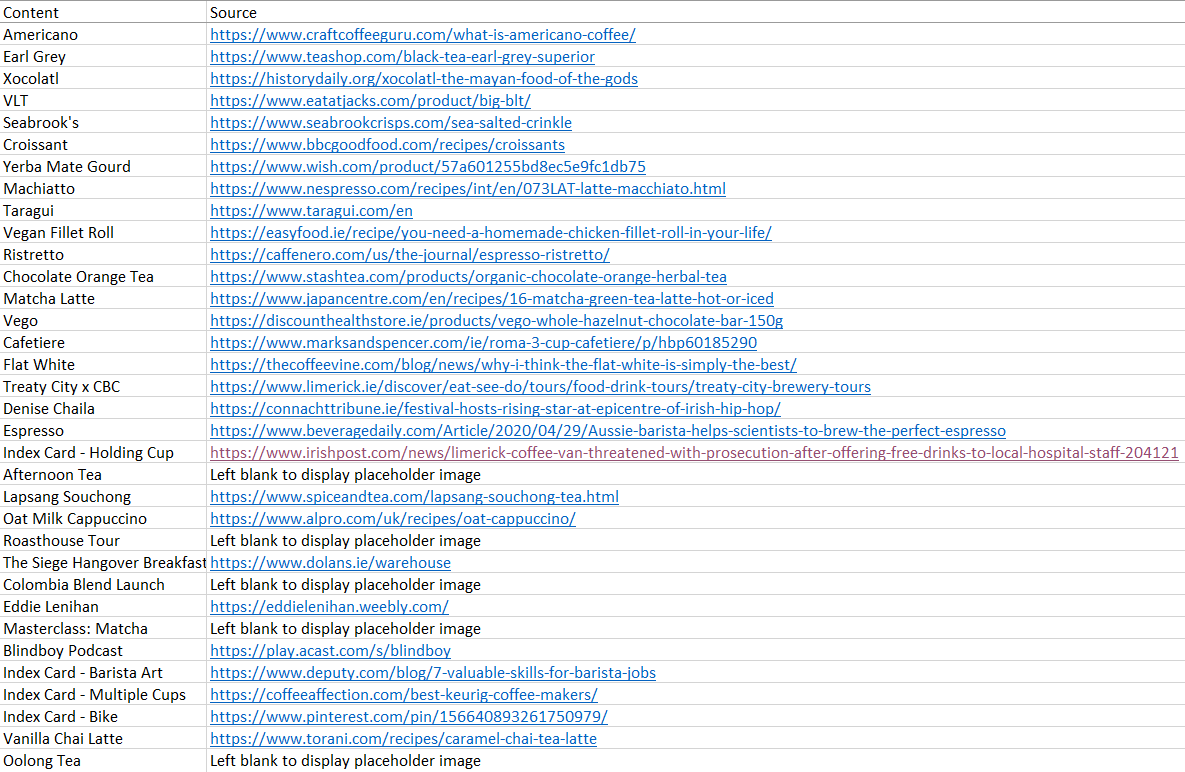
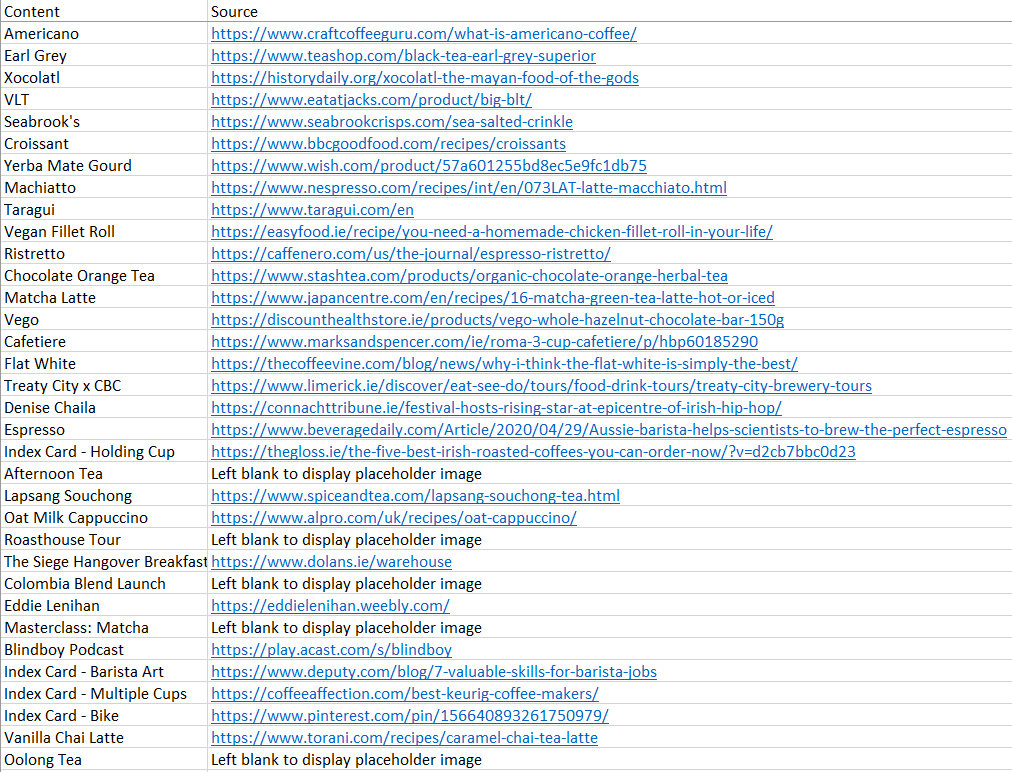
Switch first picture to higher resolution, updated credits

diff --git a/home/templates/home/index.html b/home/templates/home/index.html
@@ -23,7 +23,7 @@ Home |
                 <h4 class="card-title">Ciao!</h4>
                 <p class="card-text">Delicious coffee prepared by award-winning baristas, delivered to your door.</p>
                 <div class="d-flex justify-content-center">
-                    <a href="{url 'products' %}?category=coffee" class="btn btn-outline-success" role="button">Coffee</a>
+                    <a href="{url 'products' %}?category=coffee" class="btn btn-outline-success" role="button">Browse Coffee</a>
                 </div>
             </div>
         </div>
@@ -37,7 +37,7 @@ Home |
                 <p class="card-text">Hand-prepared sandwiches, using the best fresh Irish ingredients.
                 </p>
                 <div class="d-flex justify-content-center">
-                    <a href="url 'products' %}?category=sandwiches" class="btn btn-outline-success" role="button">Order Now</a>
+                    <a href="url 'products' %}?category=sandwiches" class="btn btn-outline-success" role="button">Browse Food</a>
                 </div>
             </div>
         </div>
@@ -71,7 +71,7 @@ Home |
                 {% if request.user.is_authenticated %}
                 <p class="card-text">View or update your profile information, see event tickets and order history.</p>
                 <div class="d-flex justify-content-center">
-                    <a href="{% url 'profile' %}" class="btn btn-outline-success" role="button">Update</a>
+                    <a href="{% url 'profile' %}" class="btn btn-outline-success" role="button">View Profile</a>
                 </div>
                 {% else %}
                 <p class="card-text">Create an account for express checkout and access to exclusive events.</p>
